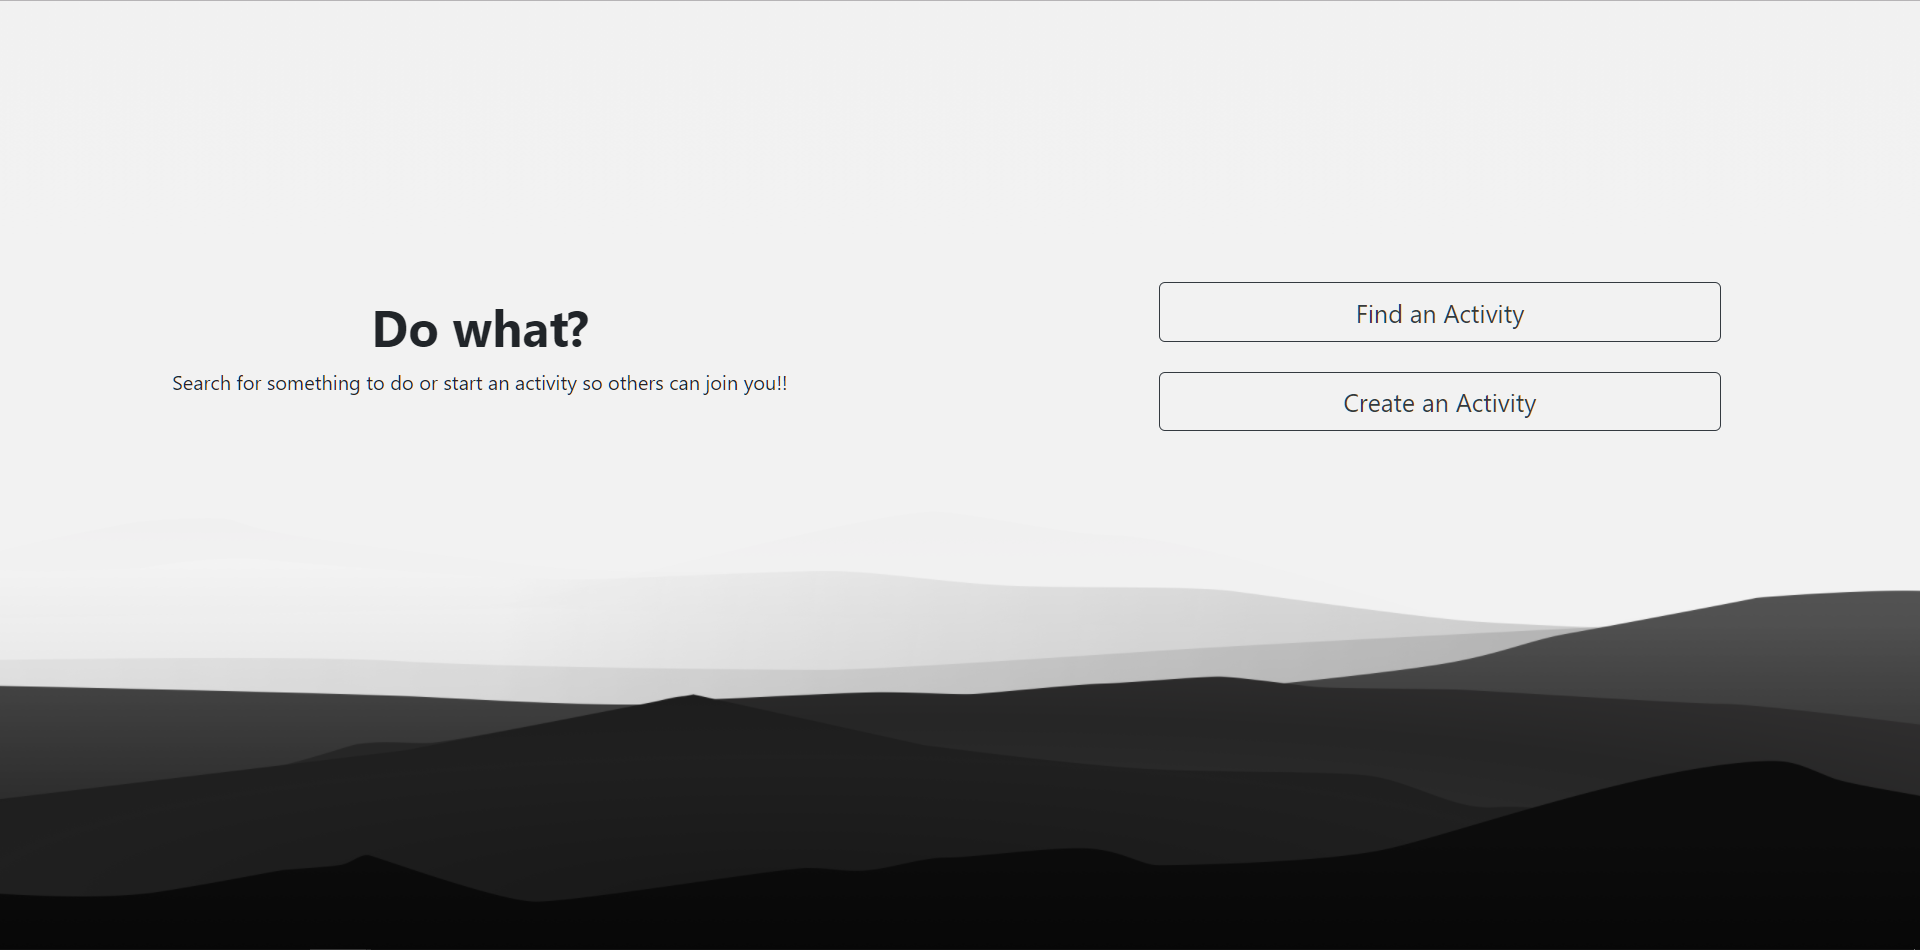
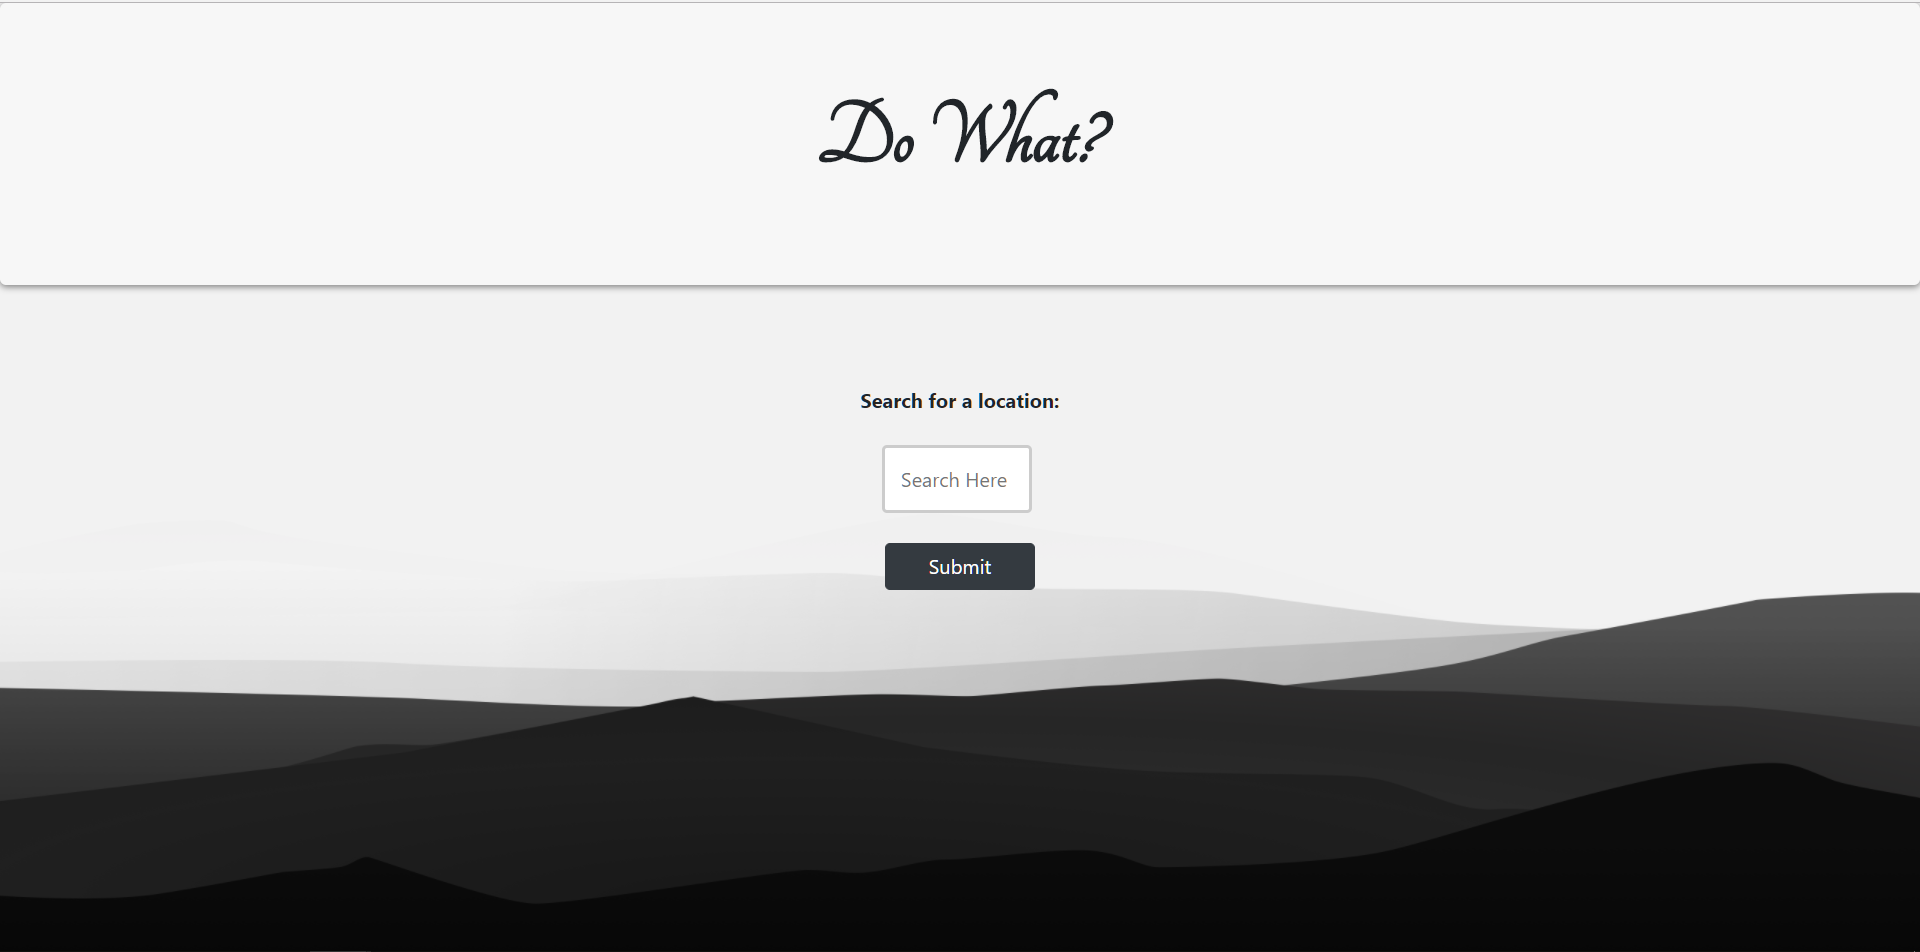
front end changes to the landing page and search html

diff --git a/search.html b/search.html
@@ -23,7 +23,7 @@
 
 		<div class="row h-100">
 			
-			<div class="col-md-2"  style="background-color: #000000">
+			<div class="col-md-2"  style="background-color: #000000 ;box-shadow: 0px 10px 5px grey">
 				<div class="row bg-light">Do What?</div>
 				<div class="row">
 				</div>
@@ -131,8 +131,8 @@
 			</div>
 
 
-			<div class="col-md-10 d-flex justify-content-around align-items-center flex-wrap"> 
-				<div class="card" style="width: 18rem;">
+			<div class="col-md-10 d-flex flex-wrap"> 
+				<div class="card" style="width: 14rem;" >
 					
 					<div class="card-body">
 						<h5 class="card-title">Card title</h5>
@@ -141,7 +141,7 @@
 					</div>
 				</div>
 
-				<div class="card" style="width: 18rem;">
+				<div class="card" style="width: 14rem;">
 					
 					<div class="card-body">
 						<h5 class="card-title">Card title</h5>
@@ -150,7 +150,7 @@
 					</div>
 				</div>
 
-				<div class="card" style="width: 18rem;">
+				<div class="card" style="width: 14rem;">
 					
 					<div class="card-body">
 						<h5 class="card-title">Card title</h5>
@@ -159,7 +159,7 @@
 					</div>
 				</div>
 
-				<div class="card" style="width: 18rem;">
+				<div class="card" style="width: 14rem;">
 					
 					<div class="card-body">
 						<h5 class="card-title">Card title</h5>
@@ -168,7 +168,7 @@
 					</div>
 				</div>
 
-				<div class="card" style="width: 18rem;">
+				<div class="card" style="width: 14rem;">
 					
 					<div class="card-body">
 						<h5 class="card-title">Card title</h5>
@@ -177,7 +177,7 @@
 					</div>
 				</div>
 
-				<div class="card" style="width: 18rem;">
+				<div class="card" style="width: 14rem;">
 					
 					<div class="card-body">
 						<h5 class="card-title">Card title</h5>
@@ -185,7 +185,7 @@
 						<a href="#" class="btn btn-dark">Go somewhere</a>
 					</div>
 				</div>
-				<div class="card" style="width: 18rem;">
+				<div class="card" style="width: 14rem;">
 					
 					<div class="card-body">
 						<h5 class="card-title">Card title</h5>
@@ -193,7 +193,7 @@
 						<a href="#" class="btn btn-dark">Go somewhere</a>
 					</div>
 				</div>
-				<div class="card" style="width: 18rem;">
+				<div class="card" style="width: 14rem;">
 					
 					<div class="card-body">
 						<h5 class="card-title">Card title</h5>
@@ -201,7 +201,7 @@
 						<a href="#" class="btn btn-dark">Go somewhere</a>
 					</div>
 				</div>
-				<div class="card" style="width: 18rem;">
+				<div class="card" style="width: 14rem;">
 					
 					<div class="card-body">
 						<h5 class="card-title">Card title</h5>
@@ -209,7 +209,7 @@
 						<a href="#" class="btn btn-dark">Go somewhere</a>
 					</div>
 				</div>
-				<div class="card" style="width: 18rem;">
+				<div class="card" style="width: 14rem;">
 					
 					<div class="card-body">
 						<h5 class="card-title">Card title</h5>
@@ -217,7 +217,7 @@
 						<a href="#" class="btn btn-dark">Go somewhere</a>
 					</div>
 				</div>
-				<div class="card" style="width: 18rem;">
+				<div class="card" style="width: 14rem;">
 					
 					<div class="card-body">
 						<h5 class="card-title">Card title</h5>
@@ -225,7 +225,7 @@
 						<a href="#" class="btn btn-dark">Go somewhere</a>
 					</div>
 				</div>
-				<div class="card" style="width: 18rem;">
+				<div class="card" style="width: 14rem;">
 					
 					<div class="card-body">
 						<h5 class="card-title">Card title</h5>

diff --git a/chooseLocation.html b/chooseLocation.html
@@ -5,28 +5,35 @@
 	<meta charset="utf-8">
 
 	<link rel="stylesheet" href="https://maxcdn.bootstrapcdn.com/bootstrap/4.0.0/css/bootstrap.min.css" integrity="sha384-Gn5384xqQ1aoWXA+058RXPxPg6fy4IWvTNh0E263XmFcJlSAwiGgFAW/dAiS6JXm" crossorigin="anonymous">
+	<link href="https://fonts.googleapis.com/css?family=Tangerine" rel="stylesheet">
+	<!-- <link href="https://fonts.googleapis.com/css?family=Arima+Madurai" rel="stylesheet"> -->
+	<link href="https://fonts.googleapis.com/css?family=Philosopher" rel="stylesheet">
 	<link rel="stylesheet" type="text/css" href="style.css">
 
 
 </head>
 <body>
-
-	<div class="container-fluid h-75 ">
-		<div class="row h-100 d-flex justify-content-center align-items-center">
+		<div class="jumbotron text-center" style=" background-color: #f7f7f7 ; box-shadow: 0px 2px 8px grey ">
+			<h1 style="font-size: 75px ;font-family: 'Tangerine', cursive;">Do What?</h1>
+			
+		</div>
+		<br>
+		<br>
+	<div class="container h-25 d-flex justify-content-center align-items-center " style="width: 200px;">
+		<div class="row h-100 ">
 			<div class="col-lg-12 text-center introText">
-				<h1>Do What?</h1>
-			<div id="dynamicDiv">
+				
+			<div id="dynamicDiv" style="font-weight: bold ; font-size: 25px; width: 300px">
 				Search for a location:
 			</div>
+			<br>
 
-			<br><br>
 			<div id="buttons"></div>
 
-			<div id="locationField" class="form-group">
-		        <input id="autocomplete" placeholder="Search Here" onFocus="geolocate()" type="text"></input>
-		        <br>
-		        <br>
-	        	<button class="btn btn-dark" id="submit" type="submit">Submit</button>
+			<div id="locationField" class="form">
+		        <input id="autocomplete" placeholder="Search Here" role = "search" onFocus="geolocate()" type="text"></input>
+		        <br><br>
+	        	<button class="btn btn-dark" id="submit" type="submit" style="width: 120px">Submit</button>
 	        </div>
 	    </div>
 	</div>

diff --git a/style.css b/style.css
@@ -4,6 +4,8 @@ body,html{
 	background-image: url("http://media.idownloadblog.com/wp-content/uploads/2016/08/5120x2880_pure_minimal.png");
 	background-size: cover;
 	height: 100%;
+    /*font-family: 'Arima Madurai', cursive;*/
+    font-family: 'Philosopher', sans-serif;
 }
 
 a, a:hover {
@@ -35,10 +37,7 @@ h1{
 	justify-content: space-around;
 	font-family: 'Rajdhani', sans-serif;
 }*/
-.rightBox{
 
-	/*background-color: #6d6d6d;*/
-}
 .opScBtn{
 
 	width: 450px;
@@ -57,12 +56,13 @@ input[type=text] {
     background-image: url('searchicon.png');
     background-position: 10px 10px; 
     background-repeat: no-repeat;
-    padding: 12px 20px 12px 40px;
+    padding: 13px;
     -webkit-transition: width 0.4s ease-in-out;
     transition: width 0.5s ease-in-out;
 }
 
-input[type=text]:focus {
+input[type=text]:focus,
+input[type=text]:hover{
     width: 100%;
 }
 

diff --git a/chooseLocation.js b/chooseLocation.js
@@ -1,7 +1,3 @@
-$(document).ready(function() {
-
-	$("#rightBox").html("<h3> Choose a location! </h3> <input id='city' name='city' autocomplete='on' data-country='us'> ");
-})
 
 var string;
 var city;
@@ -19,15 +15,16 @@ $("#submit").on("click", function(event) {
 
     $("#dynamicDiv").text(city);
 
-    var findActivity = $('<button/>').attr({
+    var findActivity = $("<a href = 'search.html'>").attr({
       class: "btn btn-dark",
-      style: "width: 350px",
+      style: "width: 300px",
     }).text('Find Activity');
 
-    var createActivity = $('<button/>').attr({
+    var createActivity = $("<a href = 'newActivity.html'>").attr({
       class: "btn btn-dark",
-      style: "width: 350px",
+      style: "width: 300px",
     }).text('Create Activity');
+
 
     $("#locationField").text("");
     $("#buttons").append(findActivity);
